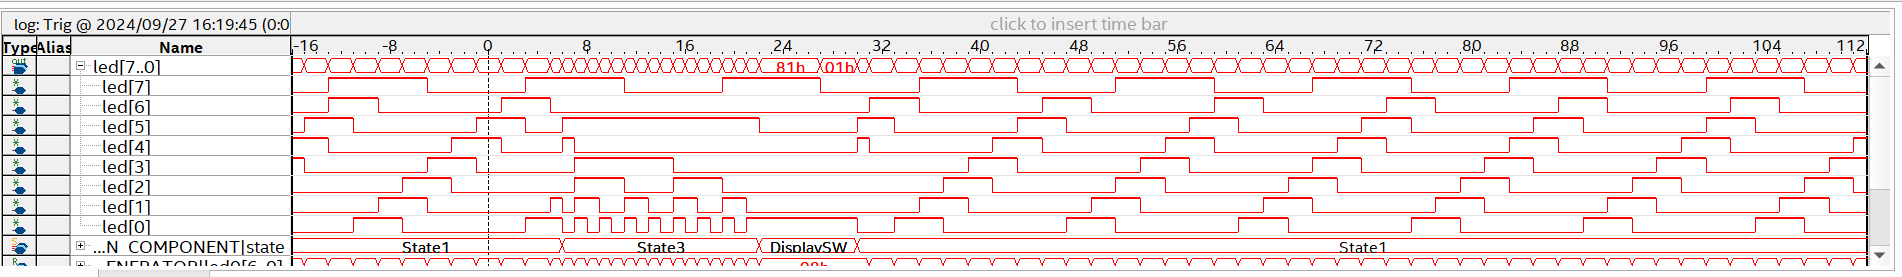
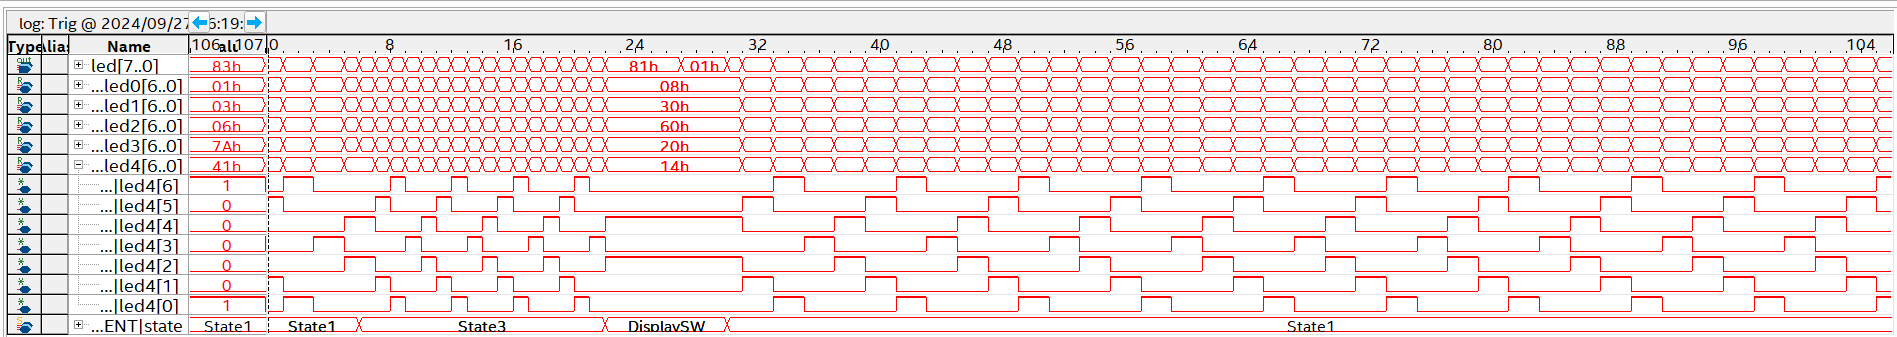
Commit of lab 5 images and markdown file

diff --git a/docs/lab5.md b/docs/lab5.md
@@ -1,0 +1,15 @@
+# Lab 5: Signal Tap
+
+## Overview 
+For lab 5, the Signal Tap Logic Analyzer tool in Quartus was used to monitor signals in the LED pattern program created in lab 4. The output signal of each pattern generator as well as the actual output driven to the LED was observed alongside the "state" signal of the state machine. The goal was to become familiar with the Signal Tap tool and how it can be used for debugging in the future.
+
+## Deliverables
+
+![Signal Tap Waveform](assets/Lab5_Waveform.png)
+![Signal Tap Setup](assets/Lab5_Setup.png)
+
+### Questions
+
+>How much FPGA on-chip memory was required to monitor your signals?
+
+Signal Tap took 6272 bits of memory to monitor the signals for this lab.
